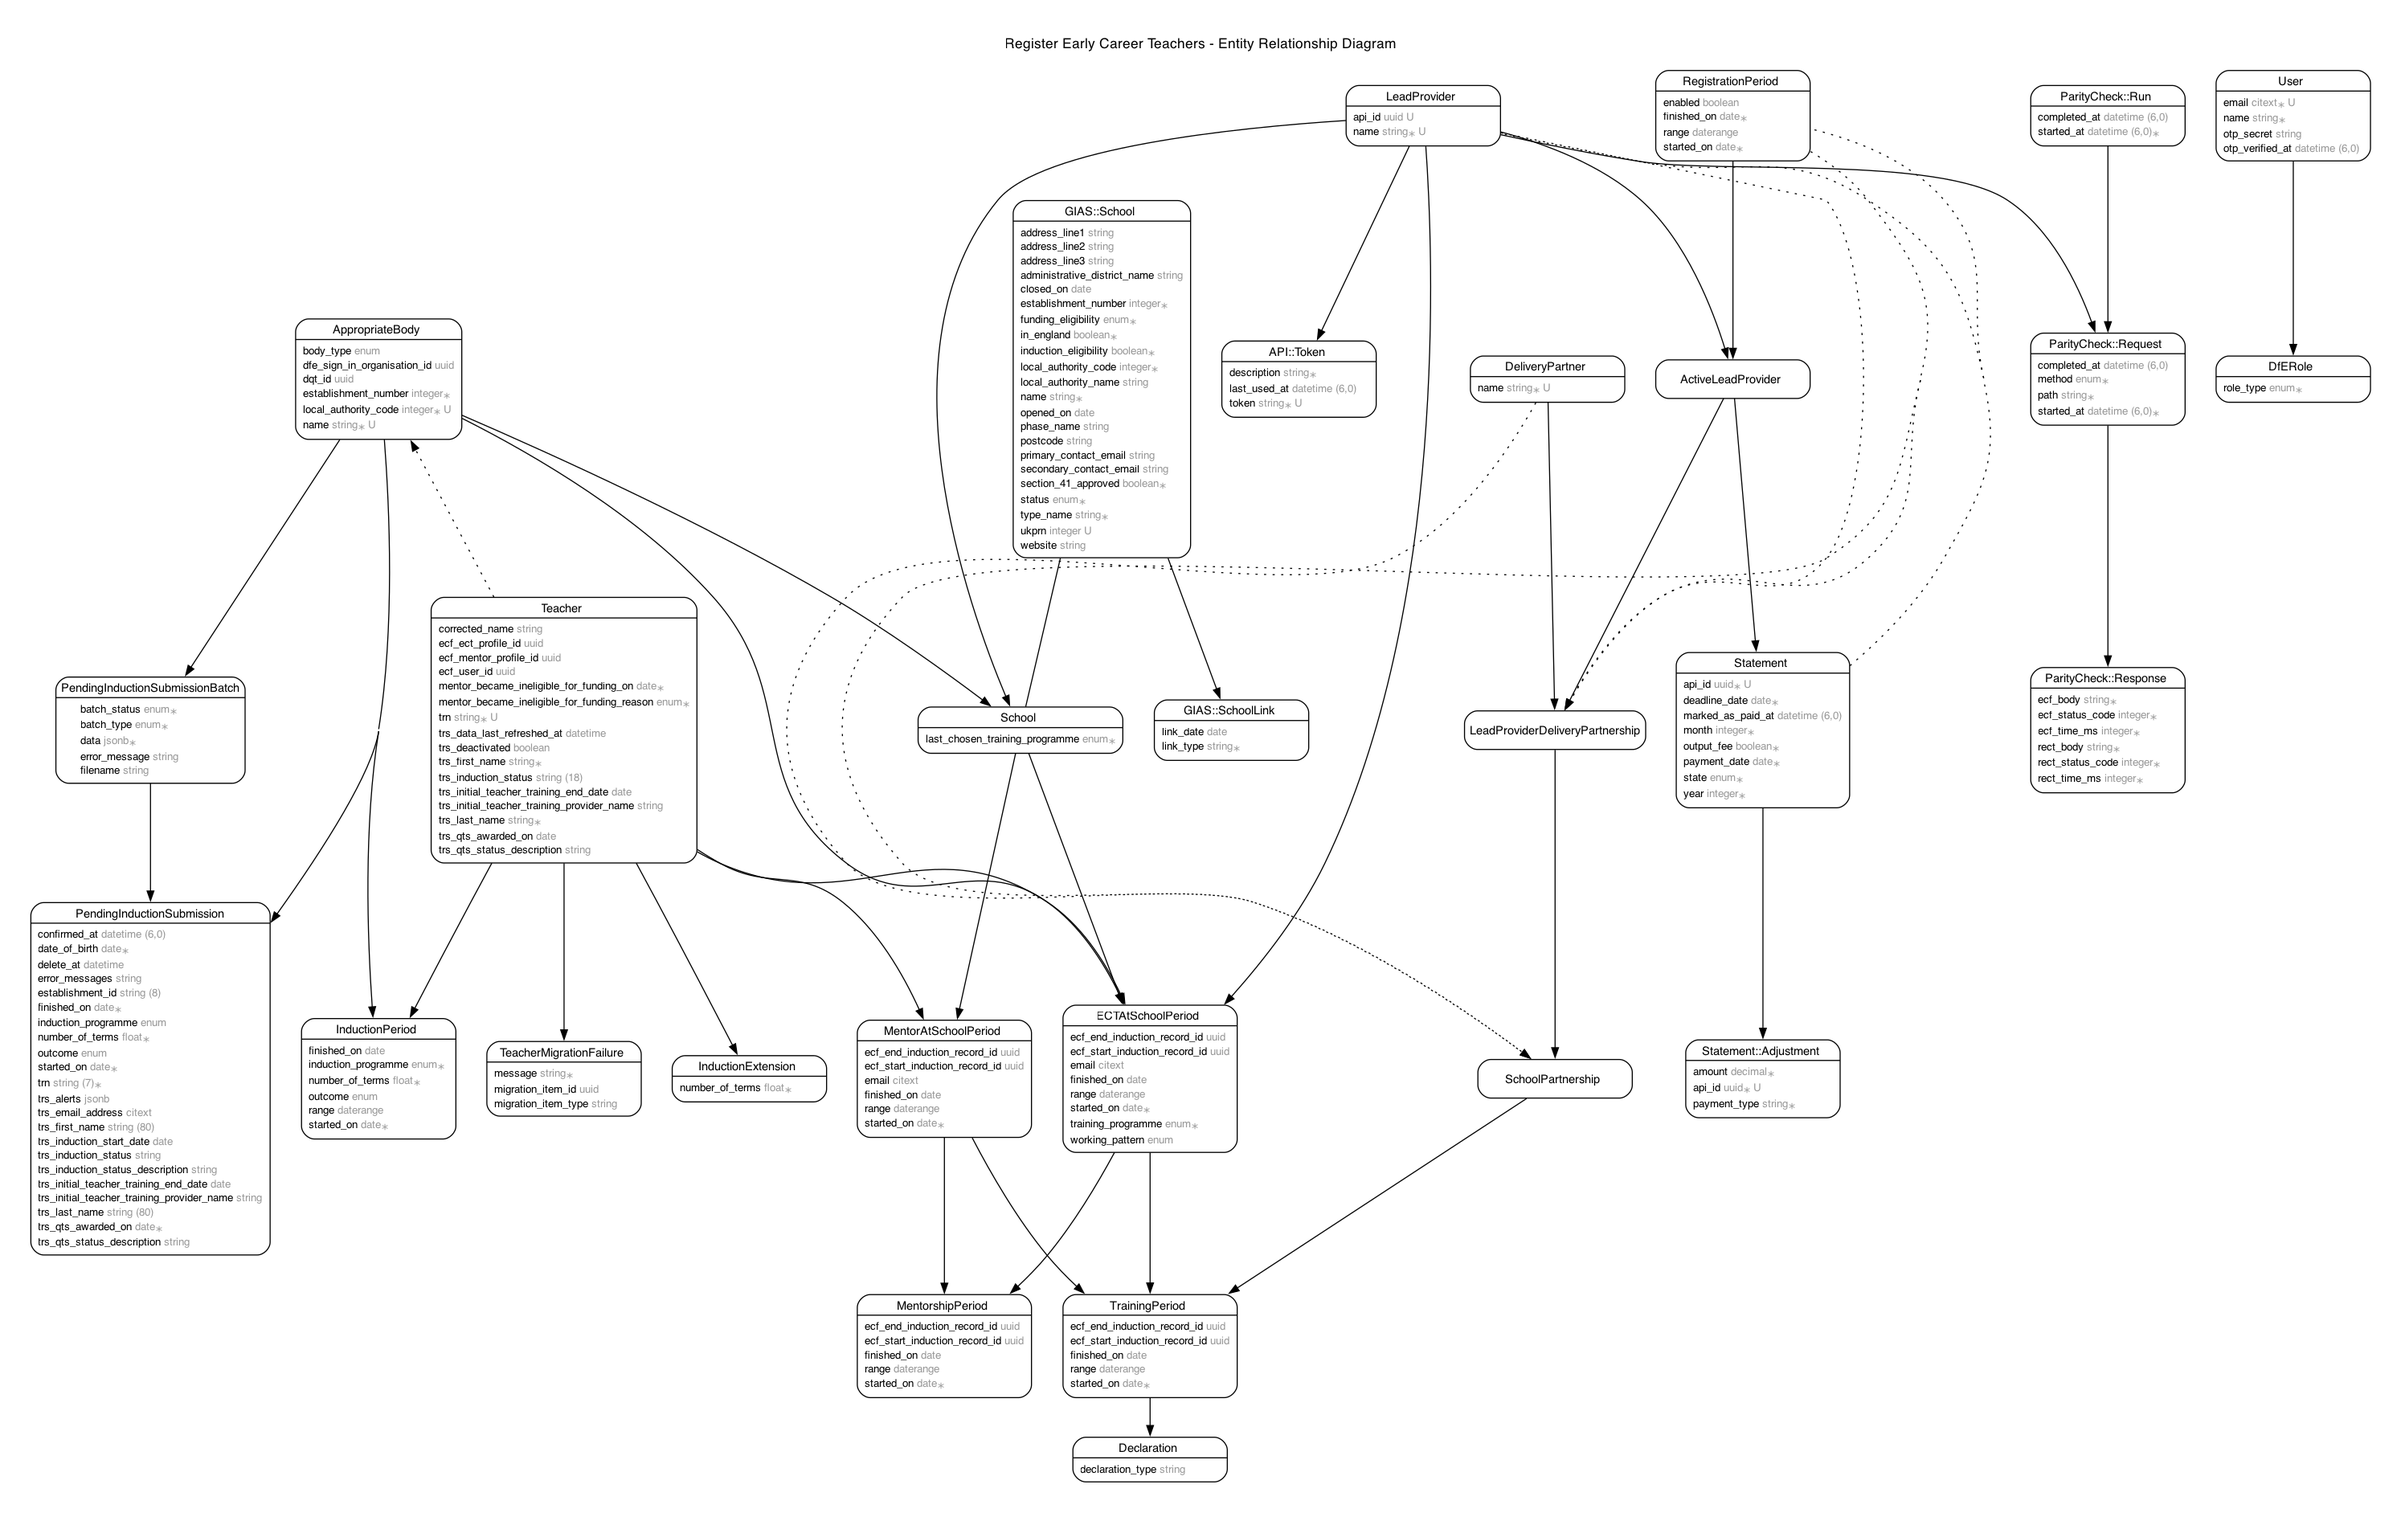
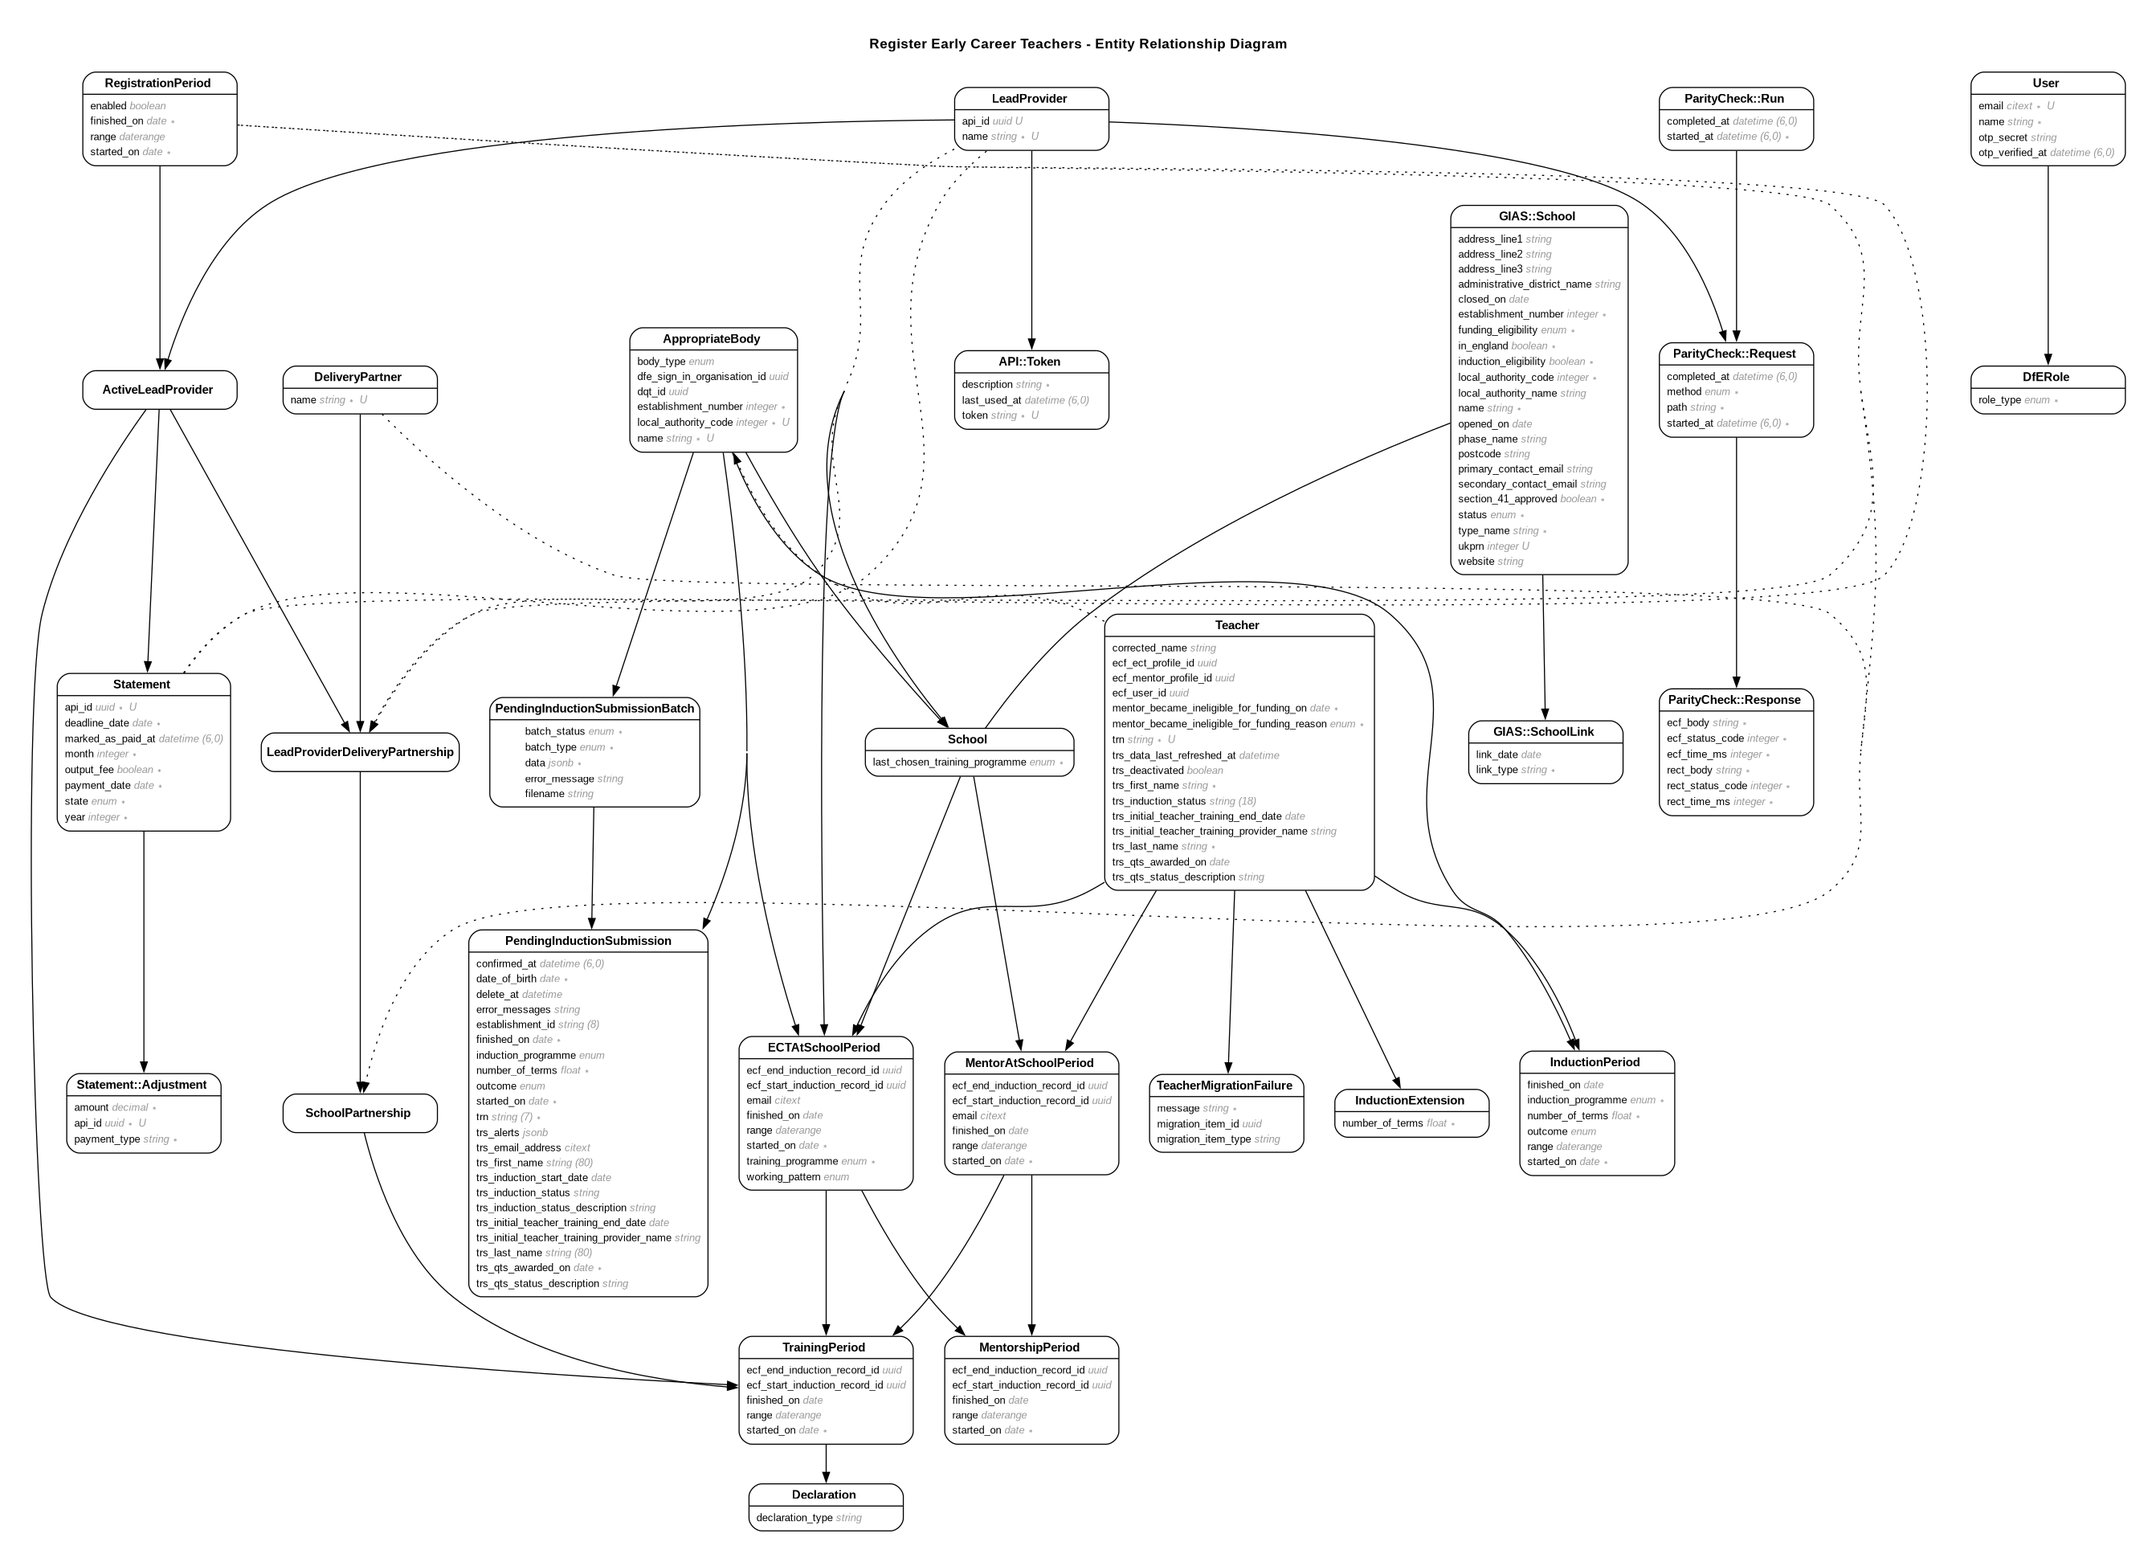
Add expression of interest relationship
The EOI represents the preference shown by a school to work with a lead
provider. It's explicitly named 'expression_of_interest' in both the
database and the models to avoid confusion between it and the **actual**
lead provider that will be linked to a traiing period (via the school
partnership).

diff --git a/db/schema.rb b/db/schema.rb
@@ -654,9 +654,11 @@ ActiveRecord::Schema[8.0].define(version: 2025_06_13_100244) do
     t.virtual "range", type: :daterange, as: "daterange(started_on, finished_on)", stored: true
     t.uuid "ecf_start_induction_record_id"
     t.uuid "ecf_end_induction_record_id"
+    t.bigint "expression_of_interest_id"
     t.index "ect_at_school_period_id, mentor_at_school_period_id, ((finished_on IS NULL))", name: "idx_on_ect_at_school_period_id_mentor_at_school_per_42bce3bf48", unique: true, where: "(finished_on IS NULL)"
     t.index ["ect_at_school_period_id", "mentor_at_school_period_id", "started_on"], name: "idx_on_ect_at_school_period_id_mentor_at_school_per_70f2bb1a45", unique: true
     t.index ["ect_at_school_period_id"], name: "index_training_periods_on_ect_at_school_period_id"
+    t.index ["expression_of_interest_id"], name: "index_training_periods_on_expression_of_interest_id"
     t.index ["mentor_at_school_period_id"], name: "index_training_periods_on_mentor_at_school_period_id"
     t.index ["school_partnership_id", "ect_at_school_period_id", "mentor_at_school_period_id", "started_on"], name: "provider_partnership_trainings", unique: true
     t.index ["school_partnership_id"], name: "index_training_periods_on_school_partnership_id"
@@ -719,6 +721,7 @@ ActiveRecord::Schema[8.0].define(version: 2025_06_13_100244) do
   add_foreign_key "statement_adjustments", "statements"
   add_foreign_key "statements", "active_lead_providers"
   add_foreign_key "teacher_migration_failures", "teachers"
+  add_foreign_key "training_periods", "active_lead_providers", column: "expression_of_interest_id"
   add_foreign_key "training_periods", "ect_at_school_periods"
   add_foreign_key "training_periods", "mentor_at_school_periods"
   add_foreign_key "training_periods", "school_partnerships"

diff --git a/spec/models/training_period_spec.rb b/spec/models/training_period_spec.rb
@@ -3,6 +3,7 @@ describe TrainingPeriod do
     it { is_expected.to belong_to(:ect_at_school_period).class_name("ECTAtSchoolPeriod").inverse_of(:training_periods) }
     it { is_expected.to belong_to(:mentor_at_school_period).inverse_of(:training_periods) }
     it { is_expected.to belong_to(:school_partnership) }
+    it { is_expected.to belong_to(:expression_of_interest).class_name('ActiveLeadProvider') }
     it { is_expected.to have_many(:declarations).inverse_of(:training_period) }
     it { is_expected.to have_many(:events) }
   end

diff --git a/app/models/active_lead_provider.rb b/app/models/active_lead_provider.rb
@@ -4,6 +4,7 @@ class ActiveLeadProvider < ApplicationRecord
   has_many :lead_provider_delivery_partnerships
   has_many :delivery_partners, through: :lead_provider_delivery_partnerships
   has_many :statements
+  has_many :expressions_of_interest, class_name: 'TrainingPeriod', foreign_key: 'expression_of_interest_id', inverse_of: :expression_of_interest
 
   validates :registration_period_id,
             presence: { message: 'Choose a registration period' },

diff --git a/spec/models/active_lead_provider_spec.rb b/spec/models/active_lead_provider_spec.rb
@@ -5,6 +5,7 @@ describe ActiveLeadProvider do
     it { is_expected.to have_many(:statements) }
     it { is_expected.to have_many(:lead_provider_delivery_partnerships) }
     it { is_expected.to have_many(:delivery_partners).through(:lead_provider_delivery_partnerships) }
+    it { is_expected.to have_many(:expressions_of_interest).class_name('TrainingPeriod').inverse_of(:expression_of_interest) }
   end
 
   describe "validations" do

diff --git a/app/models/training_period.rb b/app/models/training_period.rb
@@ -5,6 +5,7 @@ class TrainingPeriod < ApplicationRecord
   belongs_to :ect_at_school_period, class_name: "ECTAtSchoolPeriod", inverse_of: :training_periods
   belongs_to :mentor_at_school_period, inverse_of: :training_periods
   belongs_to :school_partnership
+  belongs_to :expression_of_interest, class_name: 'ActiveLeadProvider'
 
   has_many :declarations, inverse_of: :training_period
   has_many :events

diff --git a/db/migrate/20250613093722_add_expression_of_interest_relationship_to_training_period.rb b/db/migrate/20250613093722_add_expression_of_interest_relationship_to_training_period.rb
@@ -1,0 +1,5 @@
+class AddExpressionOfInterestRelationshipToTrainingPeriod < ActiveRecord::Migration[8.0]
+  def change
+    add_reference :training_periods, :expression_of_interest, foreign_key: { to_table: :active_lead_providers }
+  end
+end
